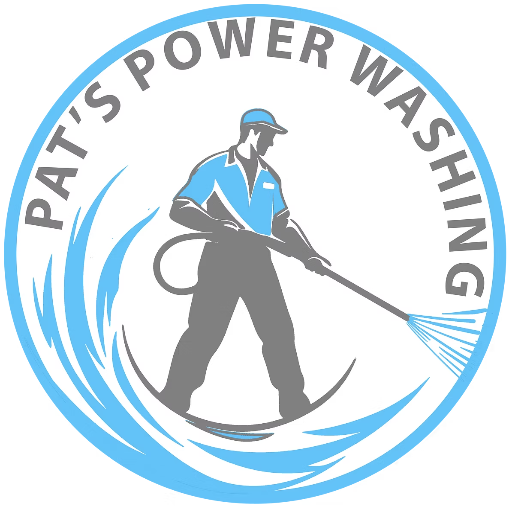
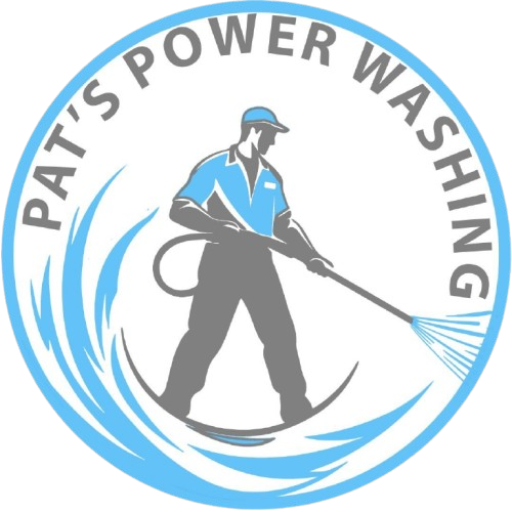
Updated: SEO

diff --git a/app/layout.tsx b/app/layout.tsx
@@ -21,6 +21,12 @@ export const metadata: Metadata = {
 export default function RootLayout({ children }: { children: React.ReactNode }) {
   return (
     <html lang="en">
+      <head>
+        <link rel="apple-touch-icon" sizes="180x180" href="/apple-touch-icon.png" />
+        <link rel="icon" type="image/png" sizes="32x32" href="/favicon-32x32.png" />
+        <link rel="icon" type="image/png" sizes="16x16" href="/favicon-16x16.png" />
+        <link rel="manifest" href="/site.webmanifest"/>
+      </head>
       <body className="bg-white text-slate-900">
         <Header />
         <main>{children}</main>

diff --git a/app/components/Header.tsx b/app/components/Header.tsx
@@ -24,7 +24,7 @@ export default function Header() {
         {/* Left: logo */}
         <Link href="/" className="flex items-center gap-2" aria-label="Pat’s Power Washing — Home">
           <Image
-            src="/logo-light.avif"         // make sure this exists in /public
+            src="/logo.png"         // make sure this exists in /public
             alt="Pat’s Power Washing logo"
             width={160}
             height={160}

diff --git a/app/components/HeaderTopBar.tsx b/app/components/HeaderTopBar.tsx
@@ -28,7 +28,7 @@ export default function Header() {
         <Link href="/" className="flex items-center gap-2" aria-label="Pat’s Power Washing — Home">
           {/* Replace with your actual asset path */}
           <Image
-            src="/logo-light.avif"
+            src="/logo.png"
             alt="Pat’s Power Washing logo"
             width={160}
             height={160}

diff --git a/app/components/Footer.tsx b/app/components/Footer.tsx
@@ -15,7 +15,7 @@ export default function Footer() {
           <div className="space-y-4">
             <Link href="/">
               <Image
-                src="/logo-light.avif"
+                src="/logo.png"
                 alt="Pat's Power Washing"
                 width={140}
                 height={40}
